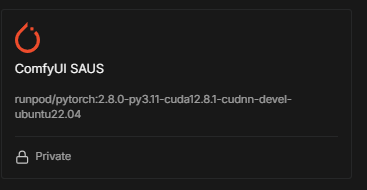
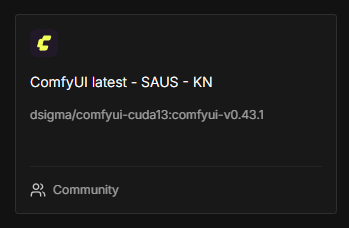
docs(runpod): point the guide at the ComfyUI latest - SAUS - KN template
- the template is named and linked: the latest ComfyUI with ComfyUI-Manager and SAUS
  already in it
- CUDA 13 or higher, and the Network Disk is described as required (it mounts at
  /workspace and keeps ComfyUI, its models/ folder and the generated files between pods)
- port 7771 is explained for what it does rather than where SAUS "is": Runpod proxies
  it and SAUS redirects into /saus on the ComfyUI port, so 7771 is the address to
  remember (and <pod-id>-7771.proxy.runpod.net is the bookmarkable form)
- the first-run note ends on a checkable signal (the log line "Redirect server running
  on port 7771")
- the old "the template will not install the custom node" warning is gone: unverifiable
  for the new template, and SAUS now ships with it
- the same pointer and name in README.md (both mentions), docs/INSTALLATION.md and
  docs/ACCESSING.md, so one wording and one URL live in all of them

diff --git a/docs/RUNPOD.md b/docs/RUNPOD.md
@@ -6,18 +6,22 @@ Runpod offers GPU rental at a good price for running the latest image and video 
 
 ## Setup
 
-After signing up, create a Network Disk (large enough for the models) and use the **ComfyUI SAUS template**.
+Deploy **ComfyUI latest - SAUS - KN**: the latest ComfyUI with ComfyUI-Manager and SAUS already in it.
+
+**[Open the template →](https://console.runpod.io/hub/template/3c0tdgrly3?ref=617ypn0k)**
 
 <img src="../web/core/media/git/RUNPOD-SAUS-template.png">
 
-> [!NOTE]
-> The template uses PyTorch 2.8, so the pod should have CUDA 12.8 or higher.
+- **GPU:** pick one whose driver supports **CUDA 13 or higher** — that is what the template's image is built for.
+- **Network Disk:** the template requires one. It is where ComfyUI, its `models/` folder and your generated files live between pods (it mounts at `/workspace`).
 
-> [!WARNING]
-> If you already have ComfyUI installed on a Network Disk, the template will not install the custom node. Install SAUS first via ComfyUI-Manager, then use the template to reach the right ports.
+> [!NOTE]
+> The first start takes a while: the template updates ComfyUI and SAUS and downloads what they need. Later starts are much shorter. Once the log prints `Redirect server running on port 7771`, SAUS is up.
 
 ## Accessing SAUS on a pod
 
-SAUS is served on **port 7771**. Open that port from the pod panel, or open ComfyUI and click the **Simple App** icon on the left toolbar. See [Accessing SAUS](ACCESSING.md) for the walk-through.
+**Open port 7771** — from the pod panel, or from **Connect → HTTP Service** (Runpod shows it as `<pod-id>-7771.proxy.runpod.net`, handy to bookmark). On a pod SAUS answers there and sends you on to ComfyUI with `/saus` appended, so 7771 is the address to remember.
+
+You can also open ComfyUI itself (port 8188) and click the **Simple App** flame in the left toolbar. See [Accessing SAUS](ACCESSING.md) for the walk-through.
 
 [Return to User Guide](USER_GUIDE.md#accessing-the-interface)

diff --git a/README.md b/README.md
@@ -127,11 +127,13 @@ sudo apt install git-all
    ```
 
 ## Runpod - pods
-Runpod offers GPU rental at a good price for running the latest image and video models, so you do not have to grind and optimise workflows yourself. After signing up, create a Network Disk (large enough for the models) and use the **ComfyUI SAUS template**.
+Runpod offers GPU rental at a good price for running the latest image and video models, so you do not have to grind and optimise workflows yourself. After signing up, create a Network Disk (large enough for the models) and deploy the **ComfyUI latest - SAUS - KN** template — the latest ComfyUI with ComfyUI-Manager and SAUS already in it.
+
+**[Open the template →](https://console.runpod.io/hub/template/3c0tdgrly3?ref=617ypn0k)**
 
 <img src="web/core/media/git/RUNPOD-SAUS-template.png">
 
-See the [Runpod guide](docs/RUNPOD.md) for the port to open and the first-run notes.
+See the [Runpod guide](docs/RUNPOD.md) for the required CUDA version, the port to open and the first-run notes.
 
 <p align="right">(<a href="#readme-top">back to top</a>)</p>
 
@@ -155,7 +157,7 @@ http://127.0.0.1:8188/saus
 </table>
 
 ## 3. in Runpod
-After start (and installation) of a pod with the ComfyUI SAUS template, SAUS is accessible in port 7771. This is visible in the HTTP services in the Pod control panel, and can be accessed by clicking there.
+After a pod with the **ComfyUI latest - SAUS - KN** template has started (the first run installs and updates), SAUS is reachable on port 7771 — it shows up among the pod's HTTP services in the control panel, and clicking it opens SAUS. It is also the `<pod-id>-7771.proxy.runpod.net` URL, which you can bookmark.
 
 <img src="web/core/media/git/port 7771.png">
 

diff --git a/docs/INSTALLATION.md b/docs/INSTALLATION.md
@@ -67,10 +67,12 @@ ComfyUI-Manager lists SAUS among the installed custom nodes. Use **Try update** 
 
 ## Runpod - pods
 
-Runpod offers GPU rental at a good price for running the latest image and video models, so you do not have to grind and optimise workflows yourself. After signing up, create a Network Disk (large enough for the models) and use the **ComfyUI SAUS template**.
+Runpod offers GPU rental at a good price for running the latest image and video models, so you do not have to grind and optimise workflows yourself. After signing up, create a Network Disk (large enough for the models) and deploy the **ComfyUI latest - SAUS - KN** template — the latest ComfyUI with ComfyUI-Manager and SAUS already in it.
+
+**[Open the template →](https://console.runpod.io/hub/template/3c0tdgrly3?ref=617ypn0k)**
 
 <img src="../web/core/media/git/RUNPOD-SAUS-template.png">
 
-See the [Runpod guide](RUNPOD.md) for the port to open and the first-run notes.
+See the [Runpod guide](RUNPOD.md) for the required CUDA version, the port to open and the first-run notes.
 
 [Return to User Guide](USER_GUIDE.md#detailed-guide)

diff --git a/docs/ACCESSING.md b/docs/ACCESSING.md
@@ -27,7 +27,7 @@ http://127.0.0.1:8188/saus
 </table>
 
 ## 3. From Runpod
-If using the SAUS template, access via port 7771 or through the ComfyUI interface.
+If you deployed the **ComfyUI latest - SAUS - KN** template, access via port 7771 or through the ComfyUI interface.
 
 When the pod starts, Runpod automatically opens the panel, where you just need to click on port 7771:
 <img src="../web/core/media/git/accessing/Runpod panel.png">
